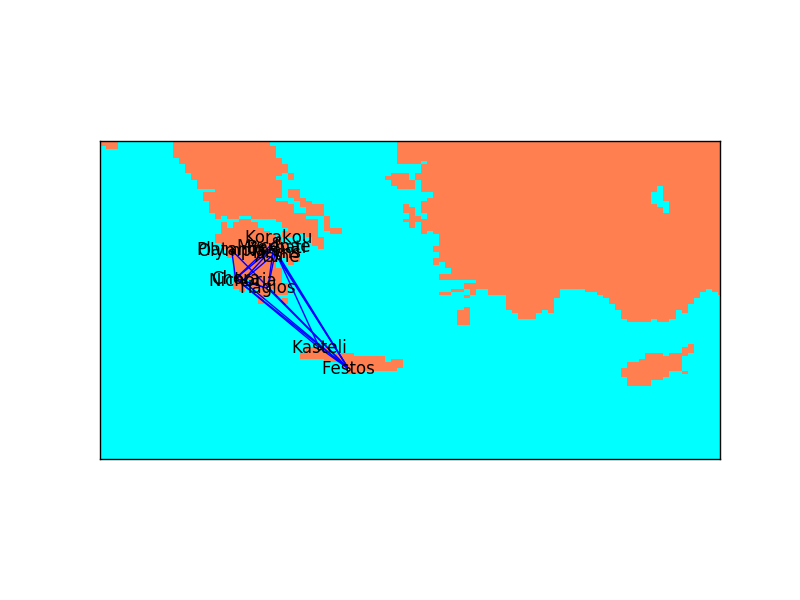
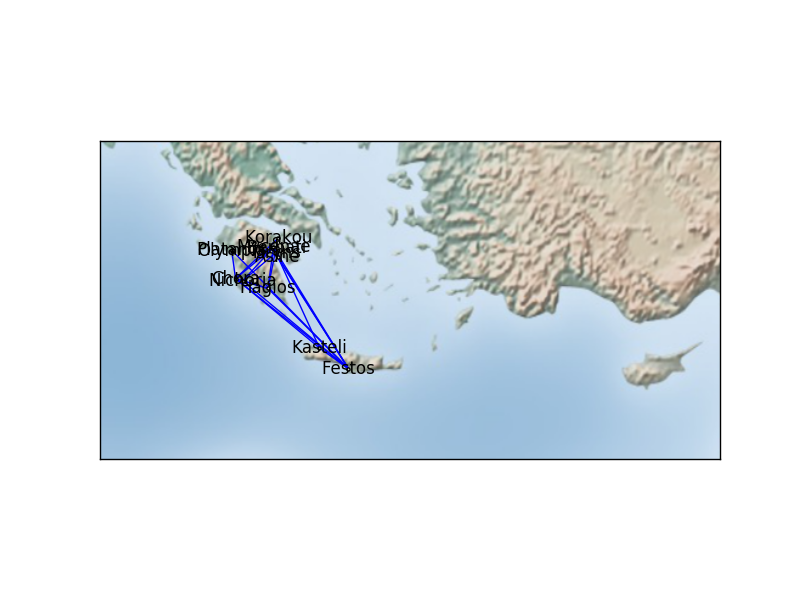
added figures

diff --git a/Code/plot_network.py b/Code/plot_network.py
@@ -38,7 +38,7 @@ def plot_network(Sim,plot_type='geo',thres=10**(-5),timeline="All_filtered",labe
                 urcrnrlon=35,
                 urcrnrlat=40,
                 lat_ts=0,
-                resolution='i',
+                resolution='f',
                 suppress_ticks=True)
             
         elif zoomparameter ==2:
@@ -96,7 +96,9 @@ def plot_network(Sim,plot_type='geo',thres=10**(-5),timeline="All_filtered",labe
         #m.drawcountries()
         #m.drawstates()
         #m.bluemarble()
-        m.drawlsmask(land_color='coral',ocean_color='aqua',lakes=True)
+        m.shadedrelief()
+        #m.etopo()
+        #m.drawlsmask(land_color='coral',ocean_color='aqua',lakes=True)
 
     elif plot_type=='plain':
 

diff --git a/Code/network_for_era.py b/Code/network_for_era.py
@@ -50,5 +50,5 @@ def network_for_era(timeline):
     filepath = "/Site_specific_data_with_ERA/"
     SimEra = getSimilarityMatrixEra(NormalizationFlag,SimilarityFlag,filepath)
     
-    plot_network(Sim,plot_type='geo',timeline=timeline,thres=thres,label_type='names')
+    plot_network(Sim,plot_type='geo',timeline=timeline,thres=thres,label_type='numbers')
     
